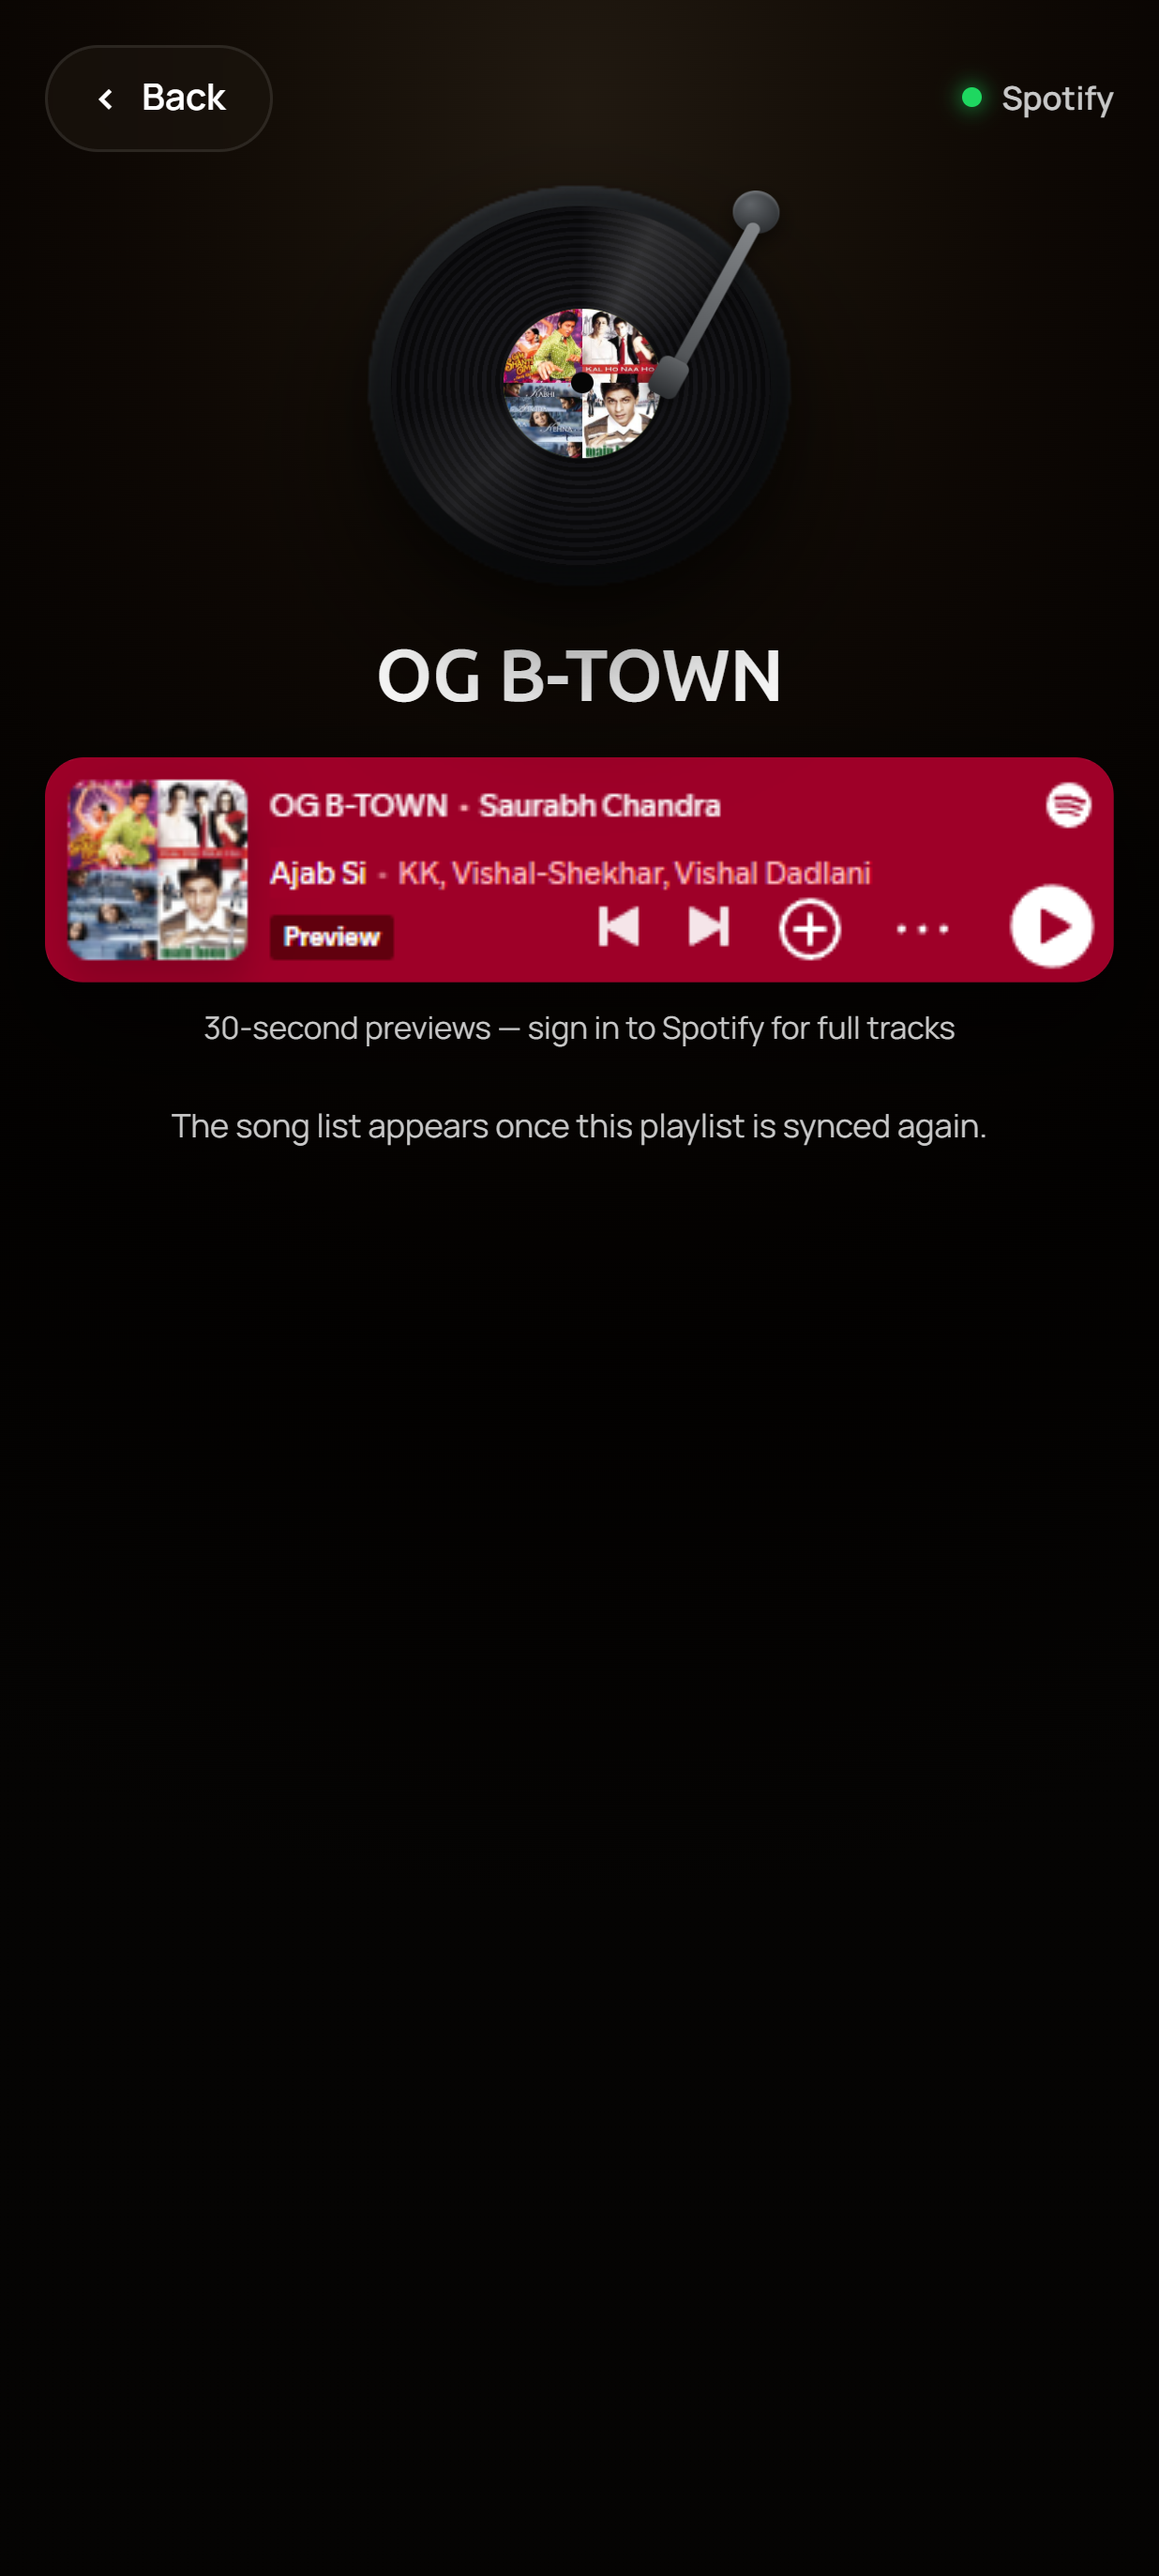
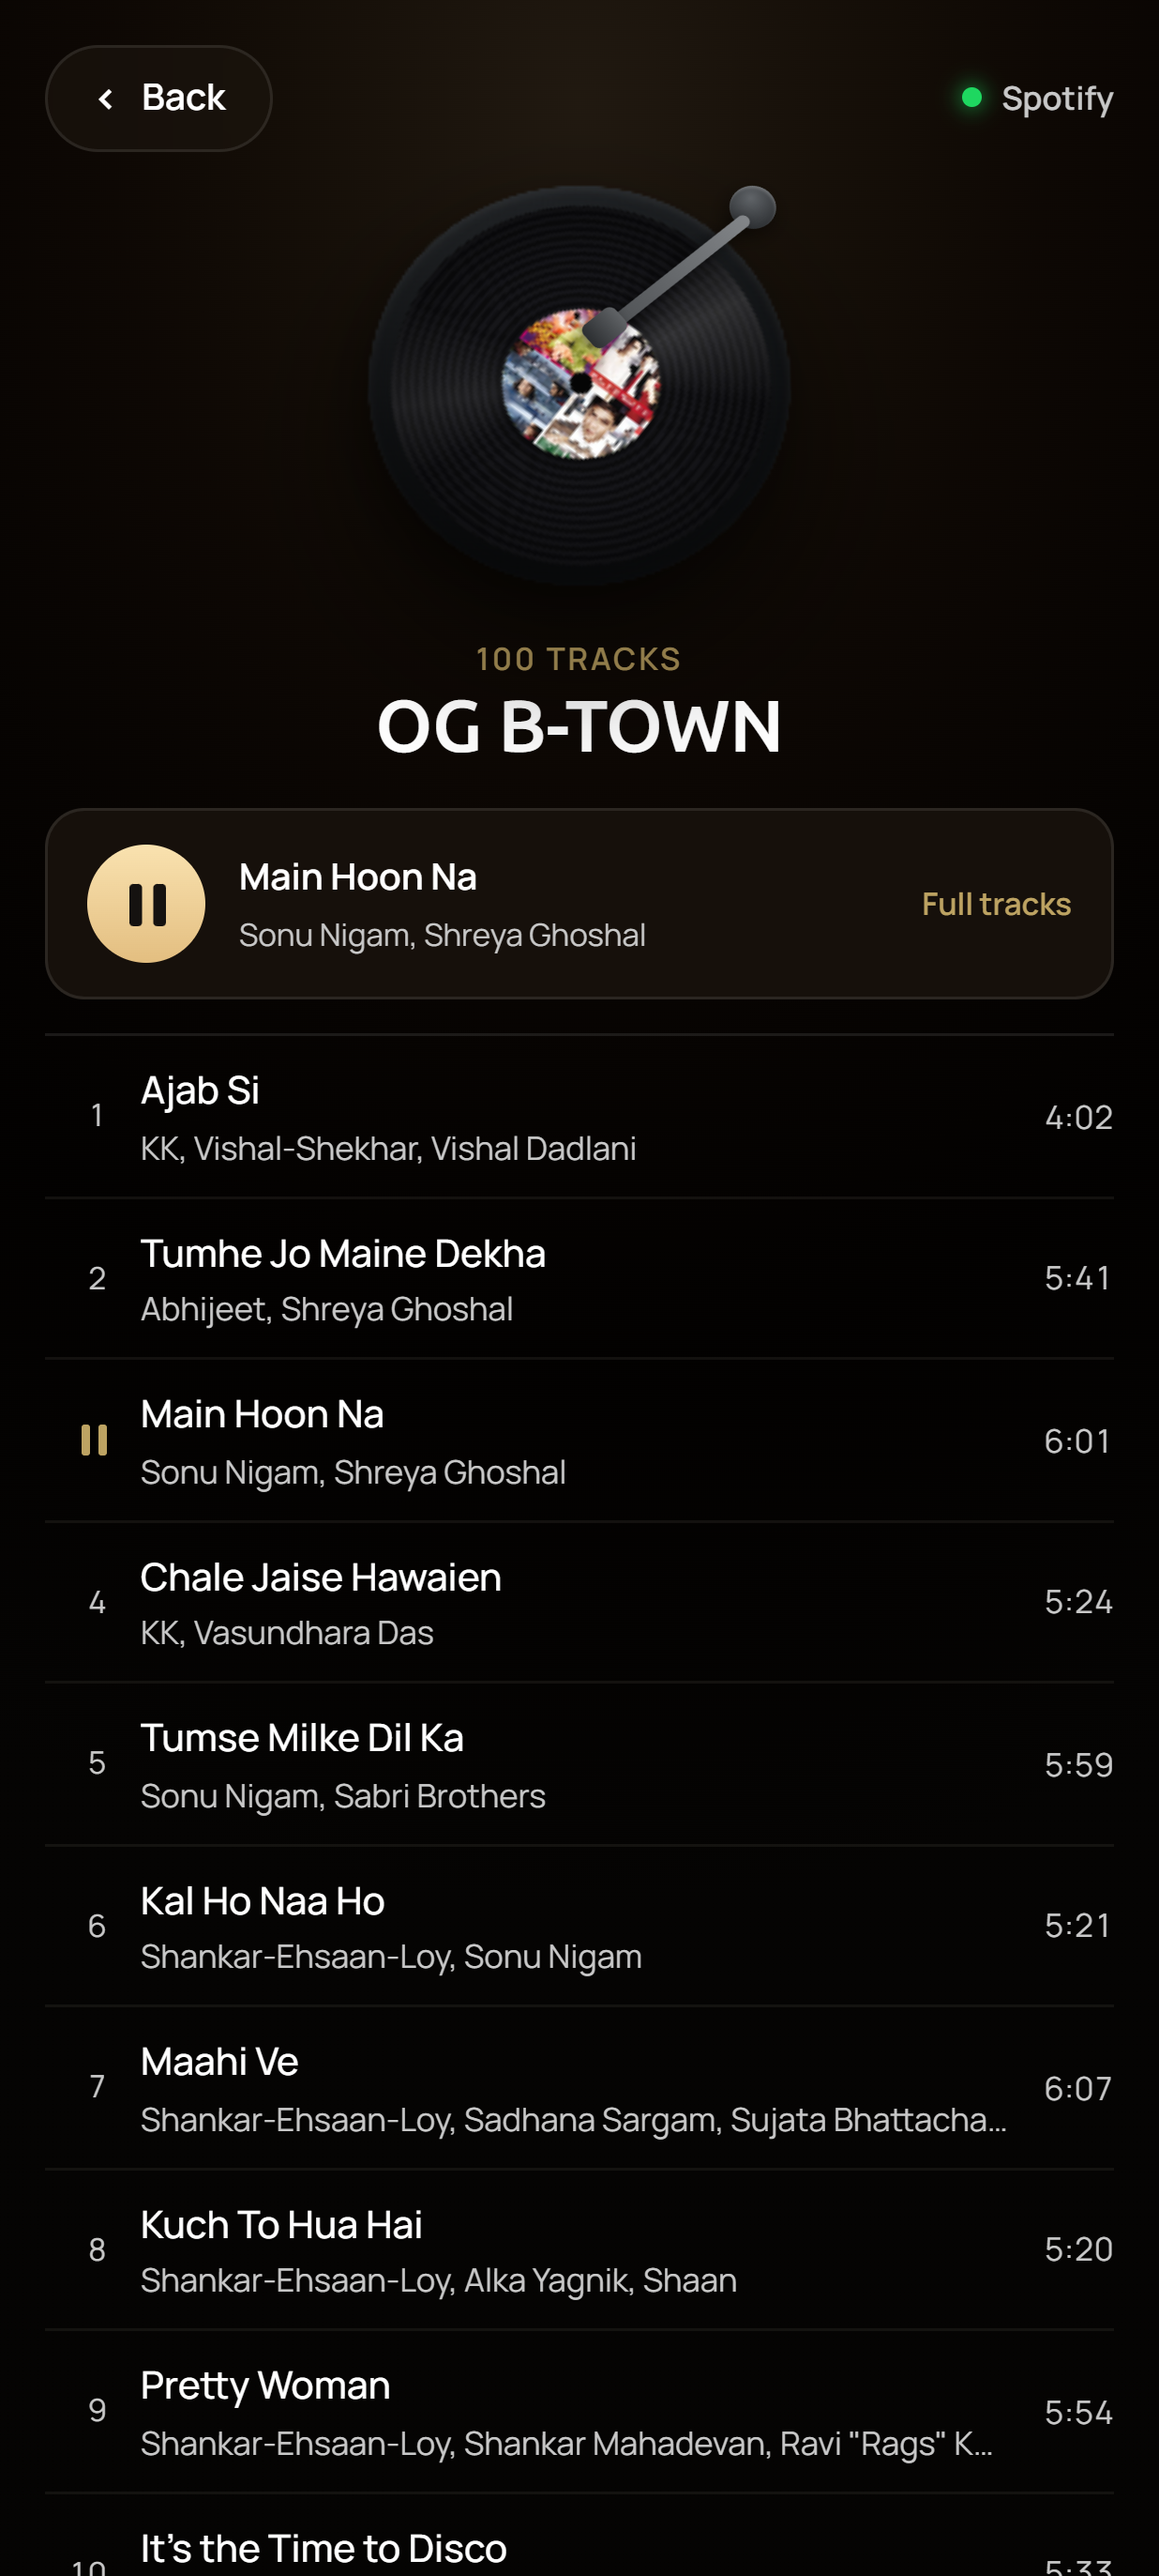
Refresh the case study's player screenshots
Both showed the Spotify iframe the last commit replaced: a red control bar that
did not play, and a song list with no way to start one. Recaptured from
production, where the new player is live, so the page shows the product as it
is rather than as it was two commits ago.

The alt text said "compact Spotify bar", which is no longer what the image
contains.

diff --git a/public/casestudy.html b/public/casestudy.html
@@ -700,7 +700,7 @@
     </p>
 
     <figure class="phone">
-      <img src="/cs-shots/real-songs.png" alt="The player page: turntable, compact Spotify bar, and the song list beneath" />
+      <img src="/cs-shots/real-songs.png" alt="The player page: turntable, our own play bar, and the song list beneath" />
       <figcaption>
         The player. Shrinking the turntable from 208px to 150px took the visible
         song rows from four to nine on a 412px screen.
